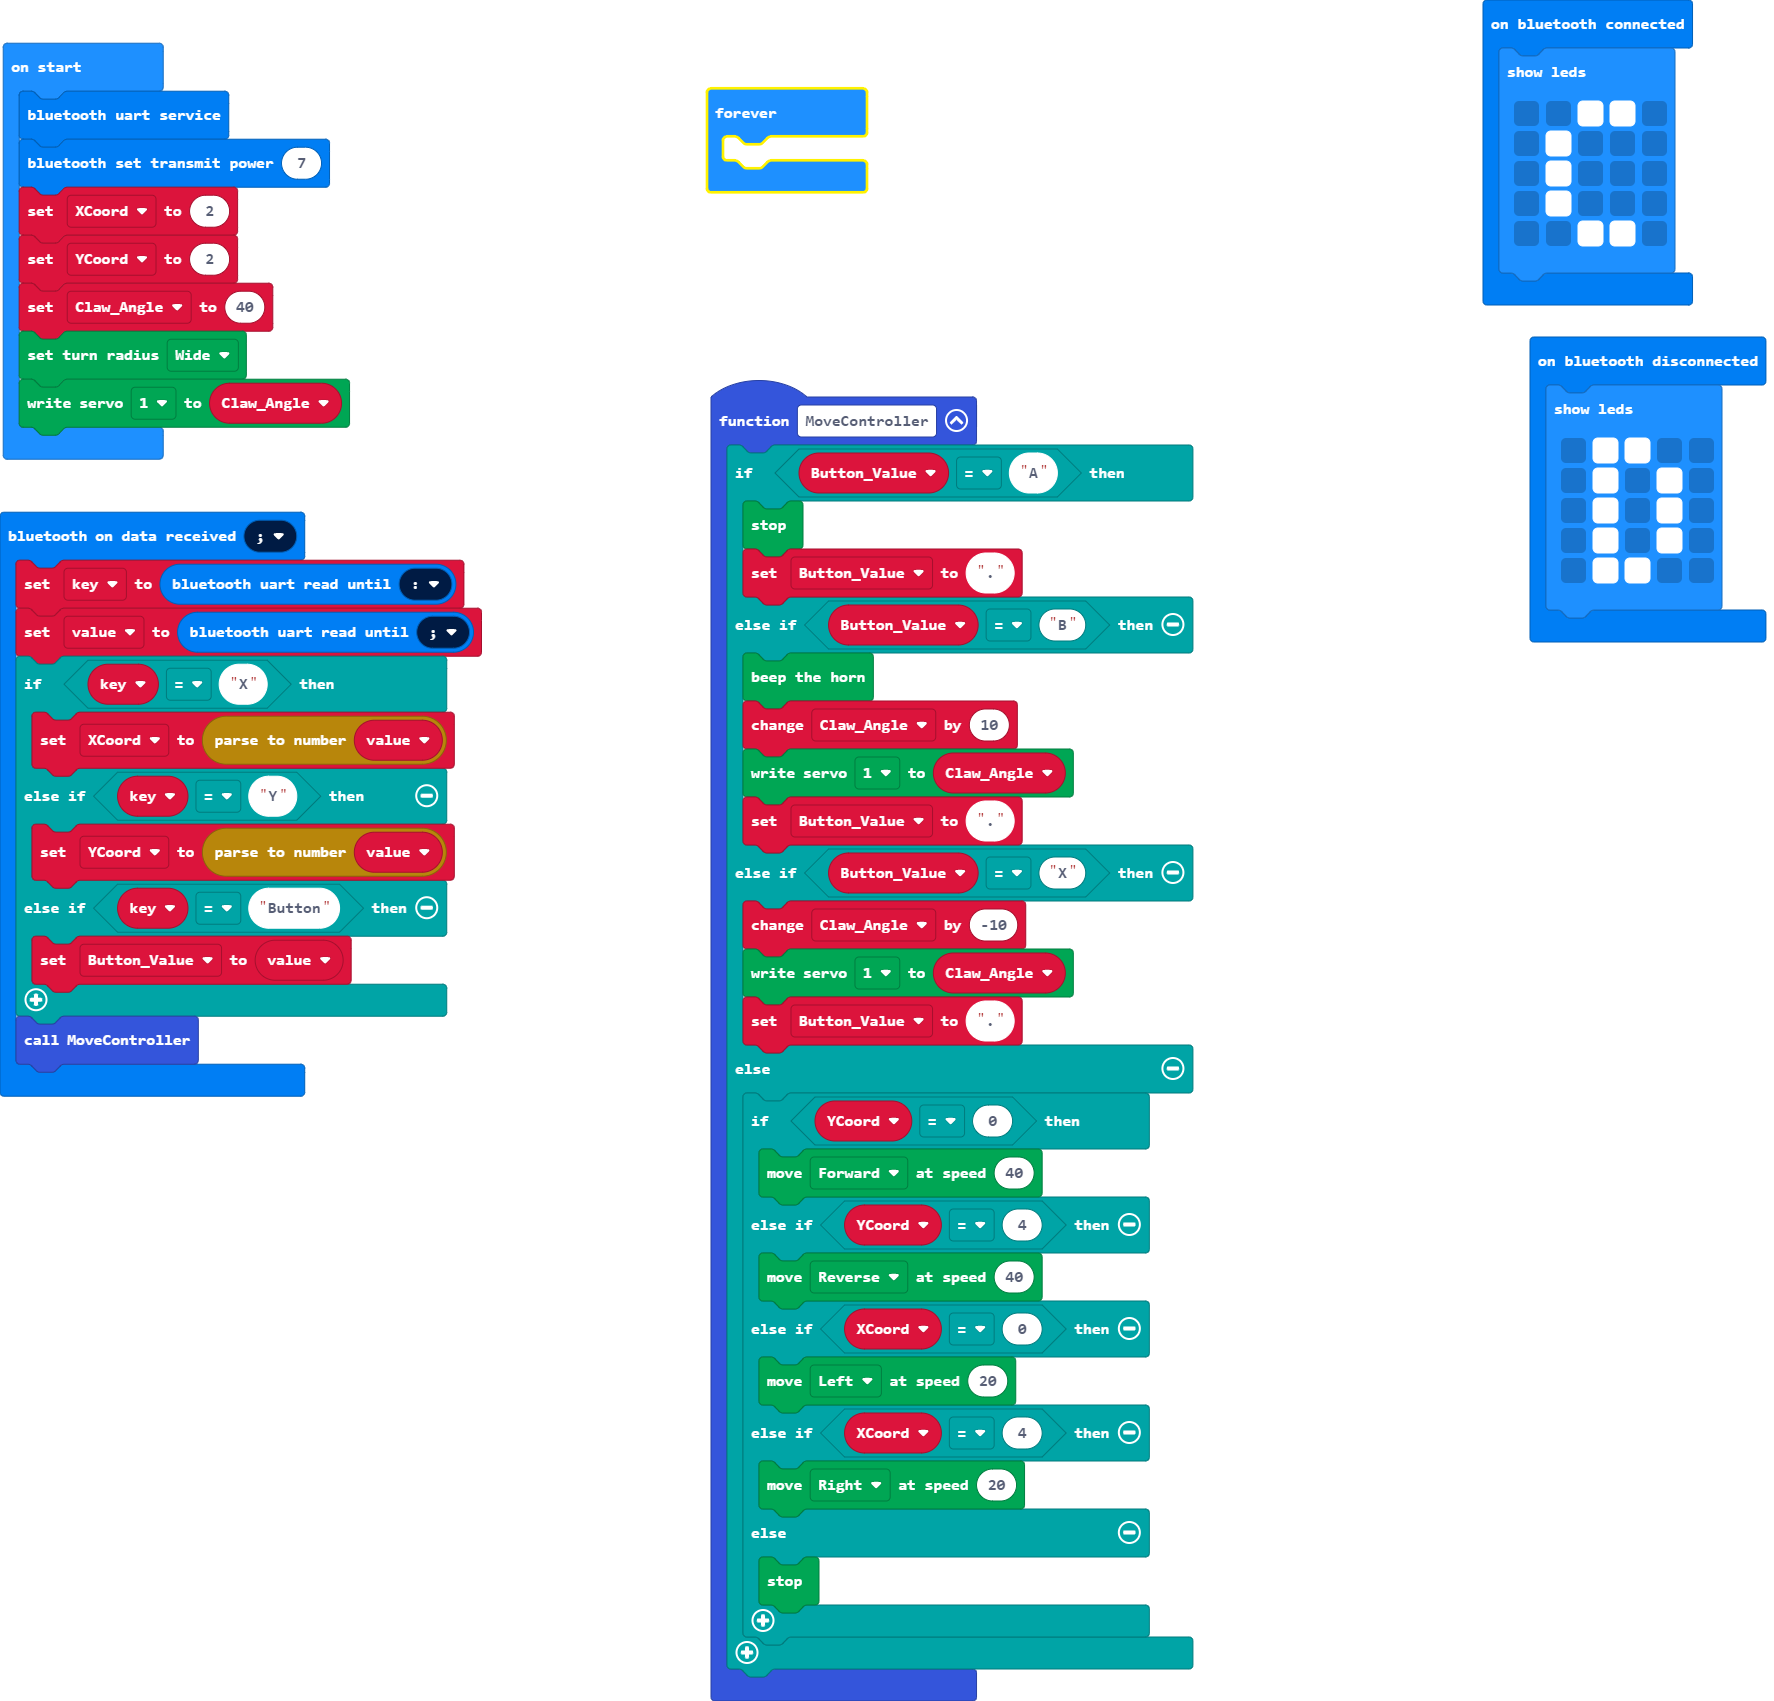
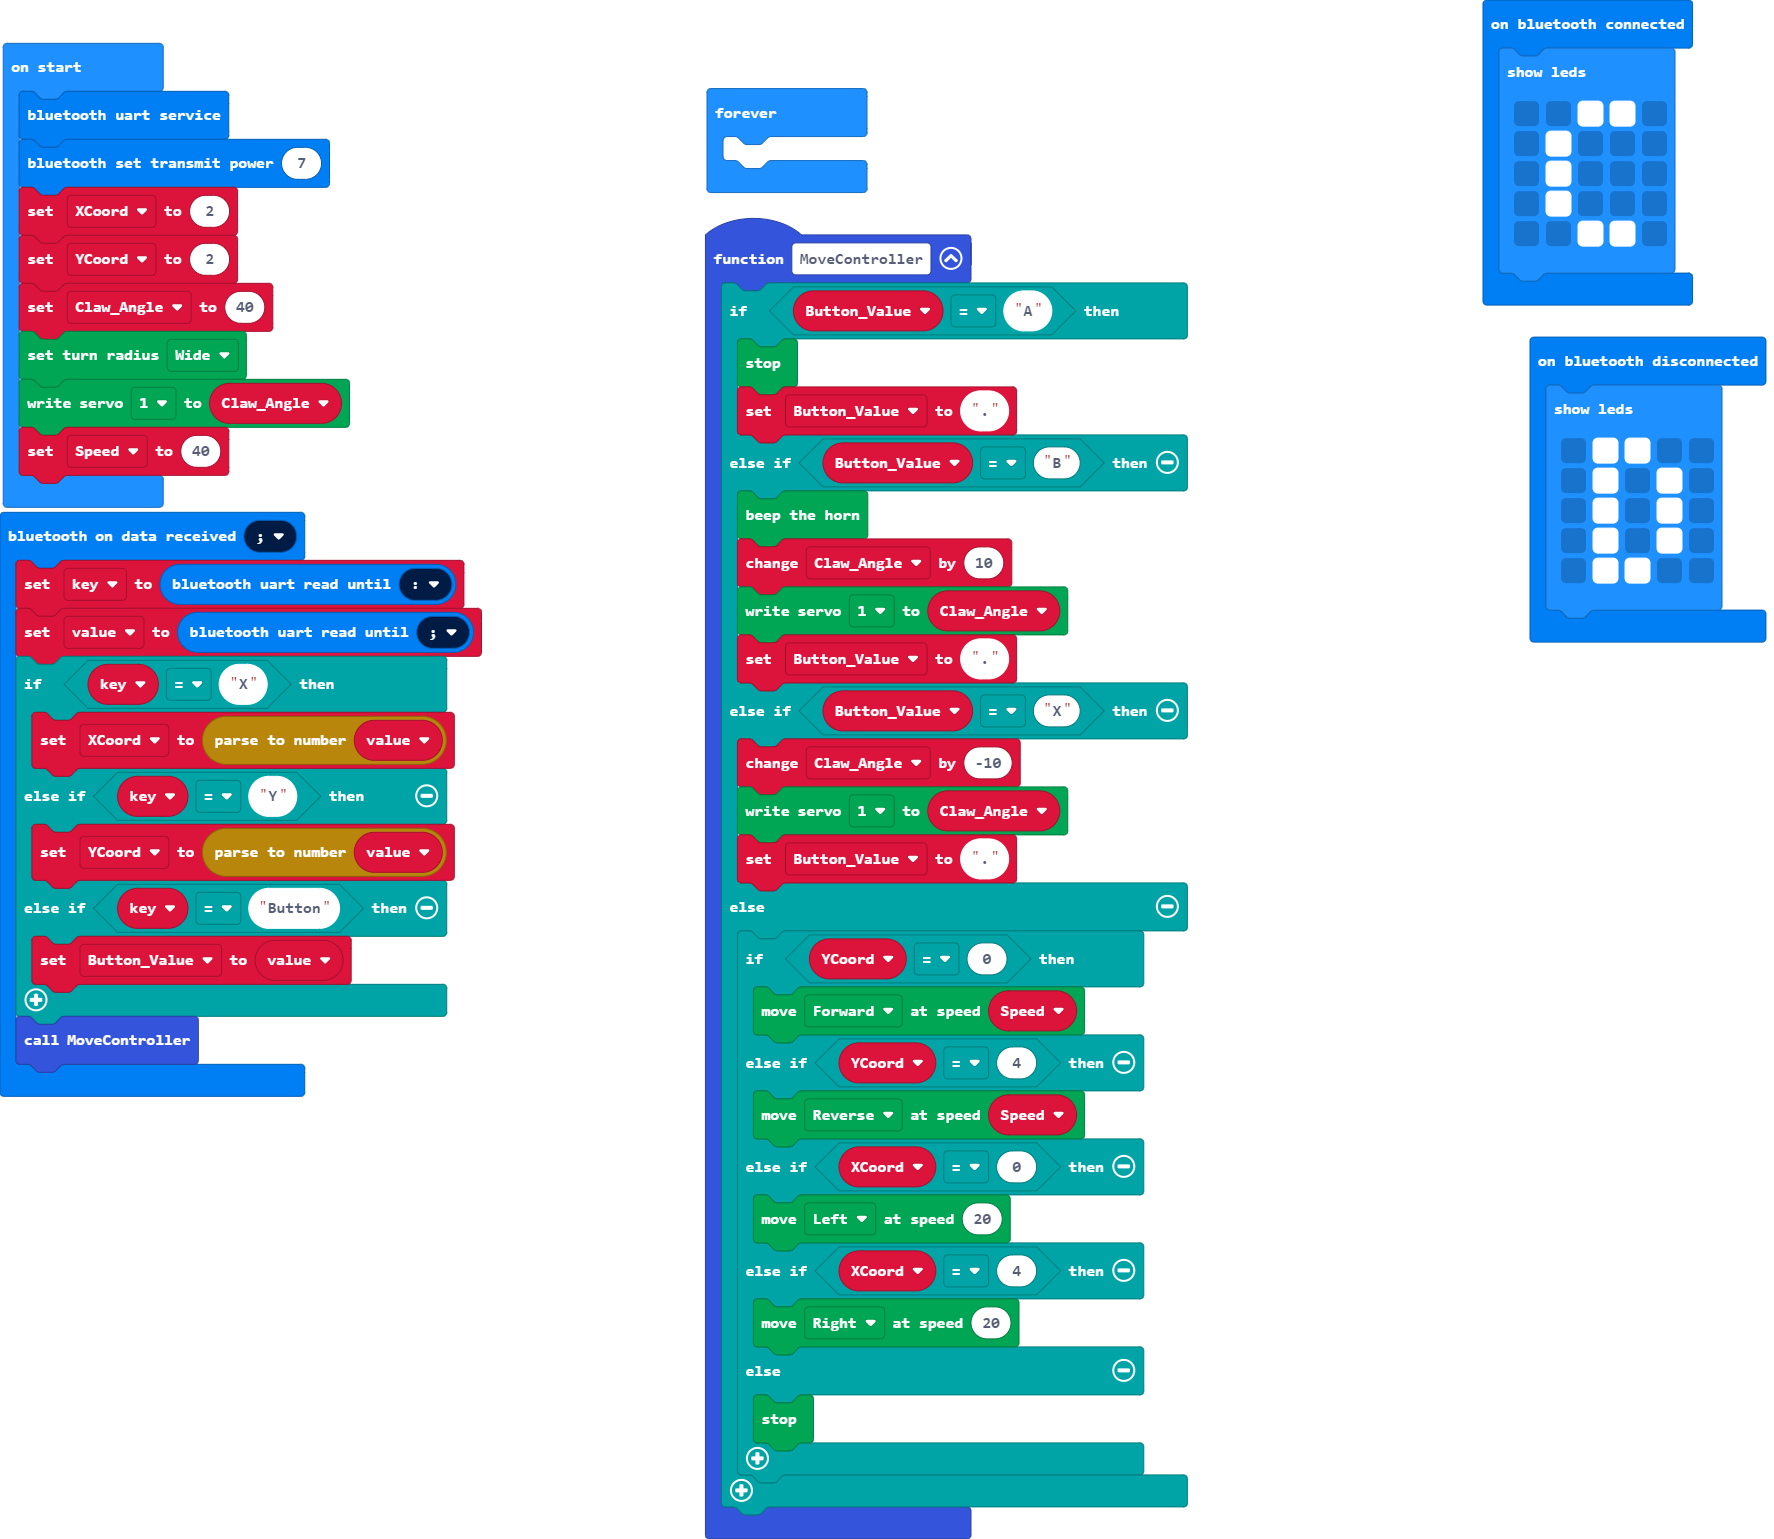
Update main.blocks, main.ts

Changed region(s): [[0.372, 0.0312, 0.6821, 1.0], [0.0, 0.0, 0.279, 0.7173], [0.8371, 0.0, 1.0, 0.4366]]

diff --git a/main.ts b/main.ts
@@ -31,9 +31,9 @@ function MoveController () {
         Button_Value = "."
     } else {
         if (YCoord == 0) {
-            Kitronik_Move_Motor.move(Kitronik_Move_Motor.DriveDirections.Forward, 40)
+            Kitronik_Move_Motor.move(Kitronik_Move_Motor.DriveDirections.Forward, Speed)
         } else if (YCoord == 4) {
-            Kitronik_Move_Motor.move(Kitronik_Move_Motor.DriveDirections.Reverse, 40)
+            Kitronik_Move_Motor.move(Kitronik_Move_Motor.DriveDirections.Reverse, Speed)
         } else if (XCoord == 0) {
             Kitronik_Move_Motor.move(Kitronik_Move_Motor.DriveDirections.Left, 20)
         } else if (XCoord == 4) {
@@ -58,6 +58,7 @@ bluetooth.onUartDataReceived(serial.delimiters(Delimiters.SemiColon), function (
 let value = ""
 let key = ""
 let Button_Value = ""
+let Speed = 0
 let Claw_Angle = 0
 let YCoord = 0
 let XCoord = 0
@@ -68,6 +69,7 @@ YCoord = 2
 Claw_Angle = 40
 Kitronik_Move_Motor.turnRadius(Kitronik_Move_Motor.TurnRadii.Wide)
 Kitronik_Move_Motor.writeServoPin(Kitronik_Move_Motor.ServoSelection.servo1, Claw_Angle)
+Speed = 40
 basic.forever(function () {
 	
 })
